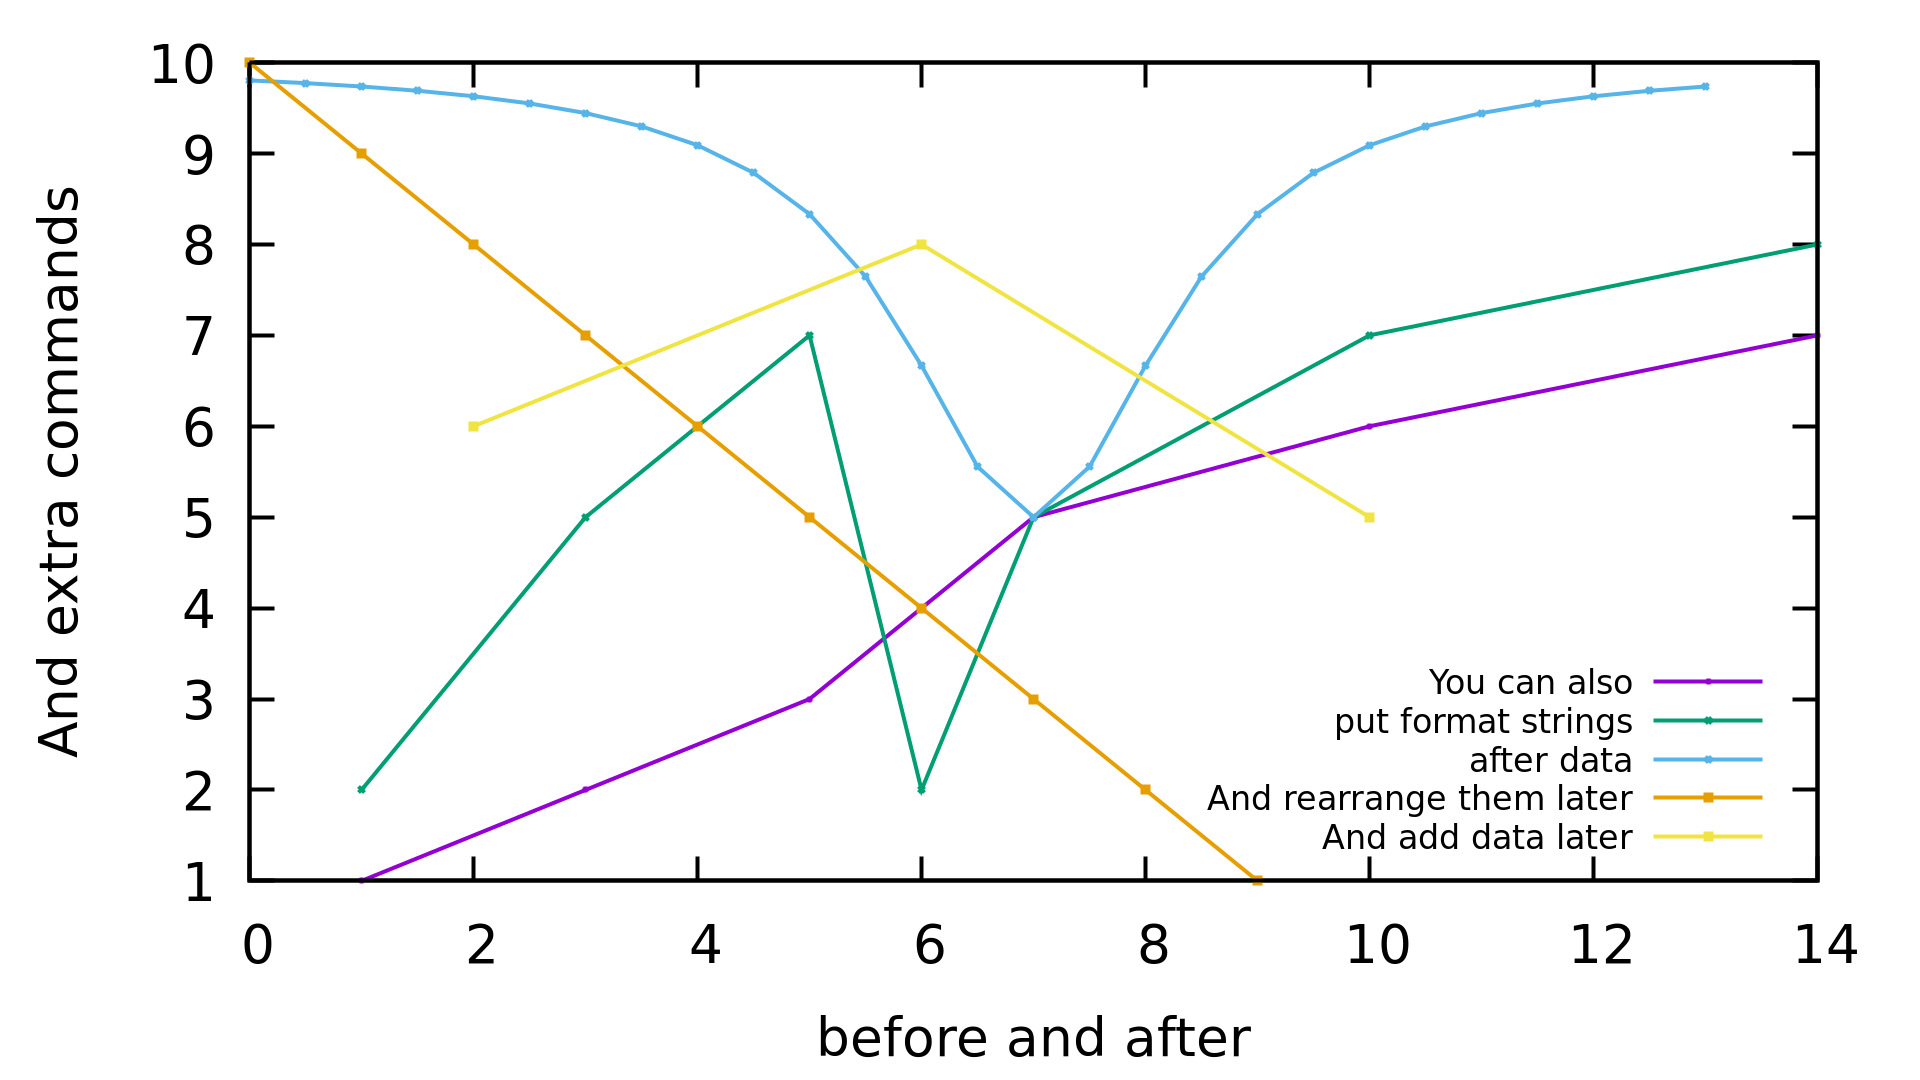
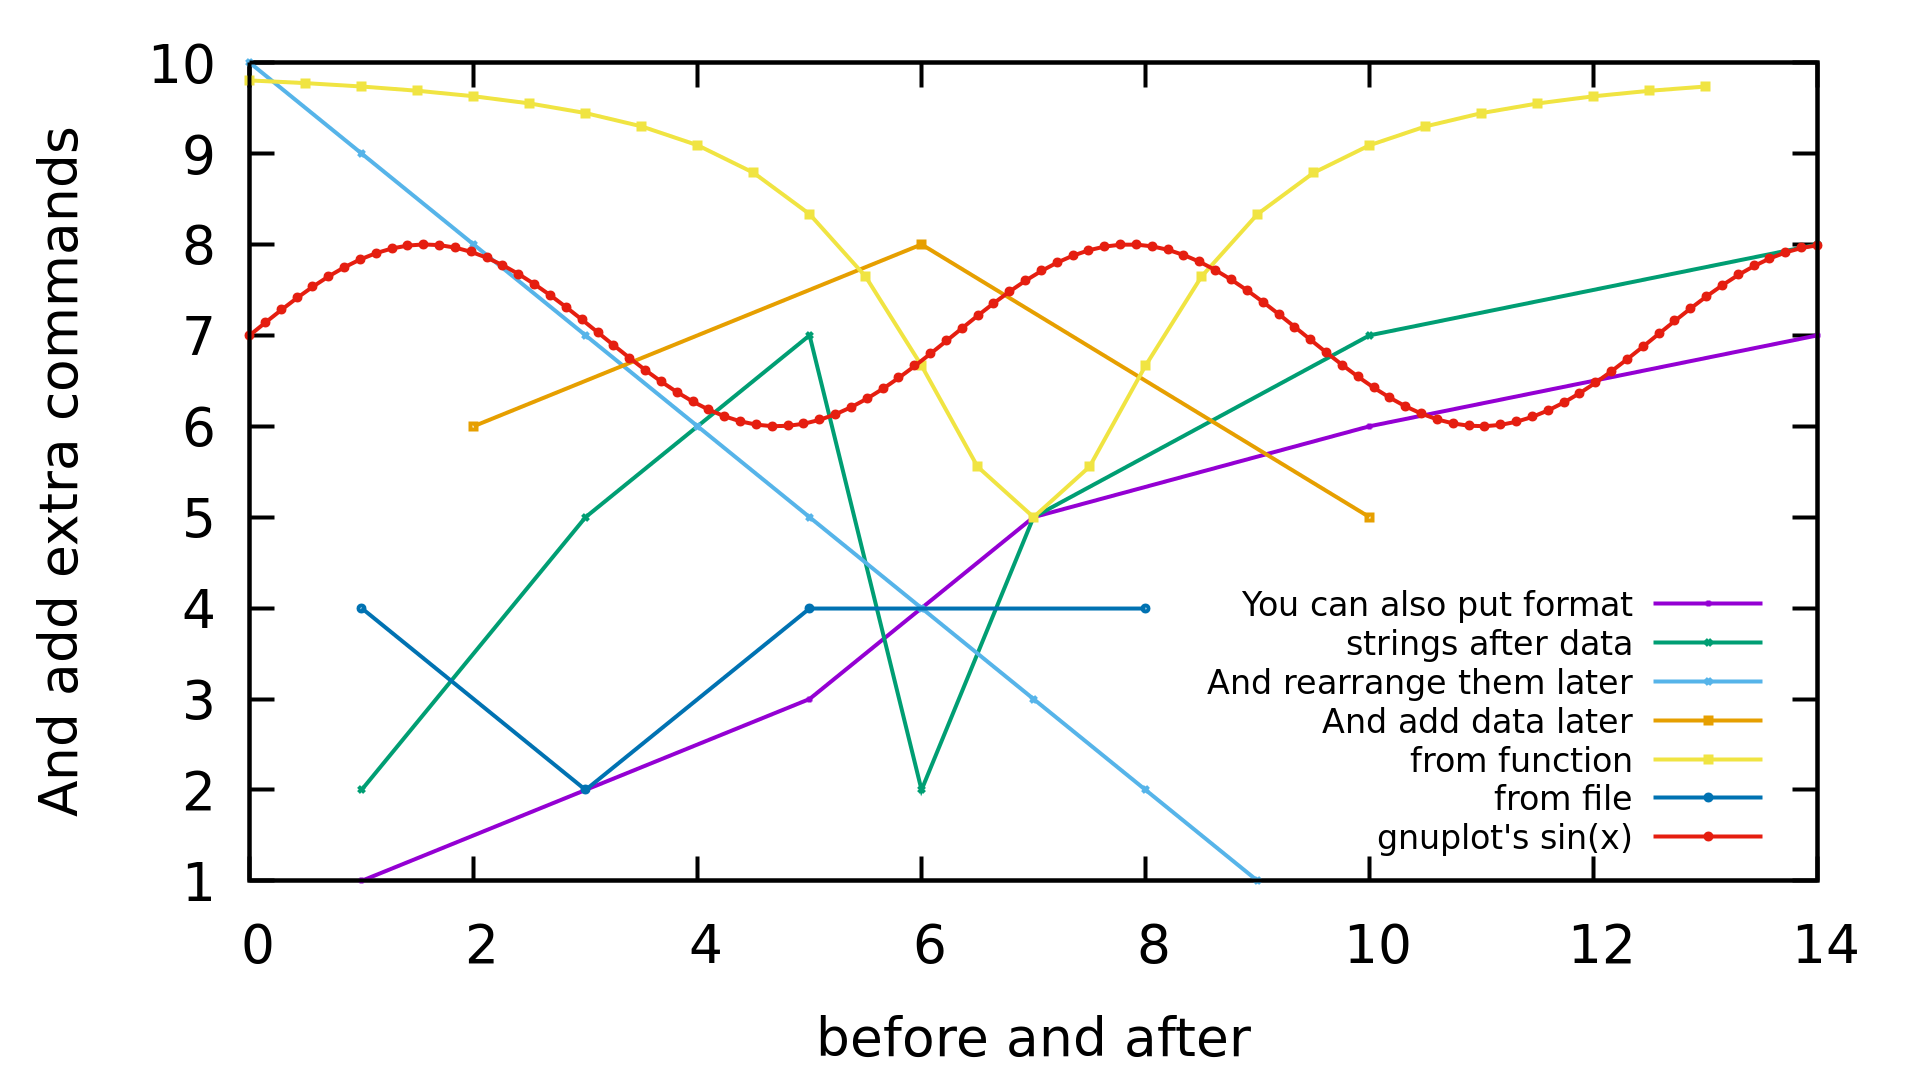
Create string-command variable and setters. Update string rearrange info (keeps nulls until data formatting step). Update README.

diff --git a/README.md b/README.md
@@ -3,6 +3,7 @@
 Interact with gnuplot via common lisp in a simple, intuitive manner. Made specifically for easy plotting of 2d and 3d data.
 
 # Quick Example
+Load data with plt:basic-read-file, plot functions by providing x data and a function, throw it all into one call to plt:plot with all your settings and you're off to the races.
 ```
 (require 'cl-gnuplot)
 (plt:reset)
@@ -14,7 +15,7 @@ Interact with gnuplot via common lisp in a simple, intuitive manner. Made specif
           :grid "x mx"
           :xtics "0,100,1000"
           :mxtics "4")
-				   
+
 (plt:save-last-plot "pngcairo lw 4 font ',40' size 1920,1080" "./resources/quick-example.png")
 ```
 ![quick-example](./resources/quick-example.png "Quick Data Loading and 2D Plotting")
@@ -24,26 +25,29 @@ Default is "with linespoints" ("w lp"). You must use a format string with "with 
 ```
 (require 'cl-gnuplot)
 (plt:reset)
-;; Format string-less plotting
+;; Data w/o format strings for quick plotting
 (plt:plot '((1 2) (3 5) (5 7) (6 2) (7 5) (10 7) (14 8)) ;; 2d data as pairs of xy data
           '(1 3 5 6 7 10 14) '(1 2 3 4 5 6 7) ;; 2d data as a list of x and a list of y data
           (plt:linspace 0 13 :step 0.5) (lambda (x) (- 10 (/ 10 (+ 2 (expt (- x 7) 2))))) ;; 2d data as a list of x data followed by a function
           ;; 1d data all by itself (with no format string) can only appear at the end
           '(10 9 8 7 6 5 4 3 2 1) ;; 2d data as just a list of y data (assuming 0,1,2... as x data)
           )
-;; Format string-full plotting
+
+;; Data with format strings (can also mix and match)
 (plt:plot :terminal "qt lw 4 font ',40' size 1920,1080"
-          plt::example-2d-data "w lp title 'put format strings'"
-          (plt:linspace 0 13 :step 0.5) (lambda (x) (- 10 (/ 10 (+ 2 (expt (- x 7) 2))))) "w lp title 'after data'"
+          plt::example-2d-data "w lp title 'strings after data'"
+          (plt:linspace 0 13 :step 0.5) (lambda (x) (- 10 (/ 10 (+ 2 (expt (- x 7) 2))))) "w lp title 'from function'"
           '(10 9 8 7 6 5 4 3 2 1) "w lp title 'And rearrange them later'"
-          '(1 3 5 6 7 10 14) '(1 2 3 4 5 6 7) "w lp title 'You can also'"
-          :ylabel "'And extra commands'"
+          '(1 3 5 6 7 10 14) '(1 2 3 4 5 6 7) "w lp title 'You can also put format'"
+		  "7+sin(x) w lp title 'gnuplot''s sin(x)'"
+		  "'./resources/2d-plotting-example.txt' w lp title 'from file'"
+          :ylabel "'And add extra commands'"
           :xlabel "'before and after'")
 (plt:plot-add '((2 6) (6 8) (10 5)) "w lp title 'And add data later'"
           :key "bottom right font ',25'")
-		  
-(plt:rearrange-plots '(3 0 1 2 4)) ;; Shuffle the plots into a more desirable order
-(plt:resend-plots) ;; Different than replot which just send "replot" to gnuplot. This resends all plot information.
+
+(plt:rearrange-plots '(3 0 2 6 1 5 4)) ;; Shuffle the plots into a more desirable order
+(plt:resend-plots) ;; Different than (plt:replot) which just sends "replot" to gnuplot. This resends all plot information.
 
 (plt:save-last-plot "pngcairo lw 4 font ',40' size 1920,1080" "./resources/2d-plotting.png")
 ```
@@ -57,7 +61,7 @@ For reference.
 
 ```
 
-TODO: Add a multiplot with all the other kinds of 2d plots (bar, violin, histo, etc.) since they're as easy as just adding a format string.
+TODO: Add a multiplot with all the other kinds of 2d plots (bar, violin, histo, etc.) since they're as easy as just adding format strings and settings.
 
 # 3D Plotting
 Default is "with pm3d". You must use a format string "with lines" ("w l") to do wireframe style plots.
@@ -92,6 +96,11 @@ Default is "with pm3d". You must use a format string "with lines" ("w l") to do 
 (plt:save-last-plot "pngcairo lw 4 font ',25' size 1920,1080" "./resources/3d-file-plotting.png")
 ```
 ![3d-file-plotting](./resources/3d-file-plotting.png "3D File Plotting and Heatmap")
+
+# Multiplot
+```
+(require 'cl-gnuplot)
+```
 
 # Typical Commands
 
@@ -148,9 +157,9 @@ Default is "with pm3d". You must use a format string "with lines" ("w l") to do 
 
 # Just Let Me Use Gnuplot Syntax Dangit
 ```
-(plt:send-strings (list "set terminal qt enhanced font 'arial,16' size 1920,1080"
-                        "plot 'mydata.txt' w lp u 1:2 title 'override'"
-                        "set xlabel 'Booyah' font ',300'"))
+(plt:send-strings (list "set terminal qt enhanced font 'arial,30' size 1920,1080"
+                        "plot './resources/quick-example-file.txt' w lp u 1:2 title 'Override'"
+                        "set xlabel 'Proof of Concept' font ',20'"))
 ```
 
 ## License
